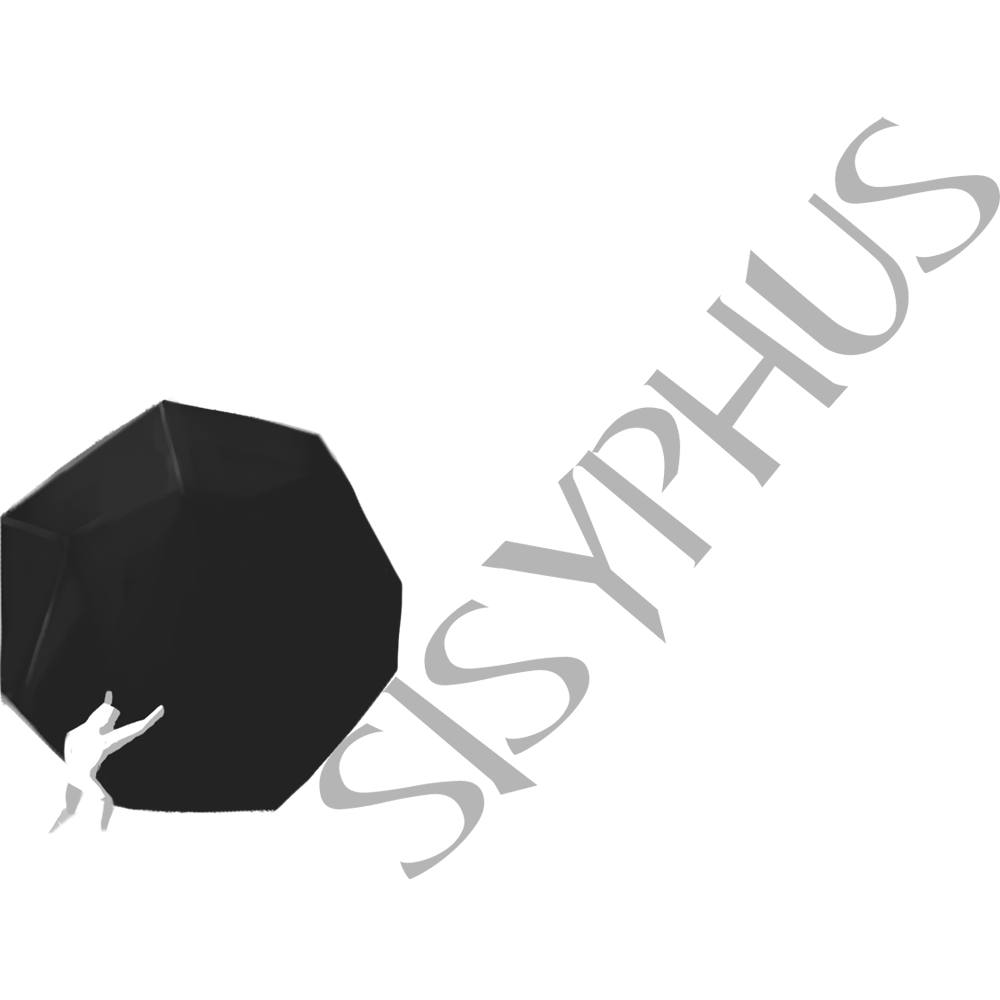
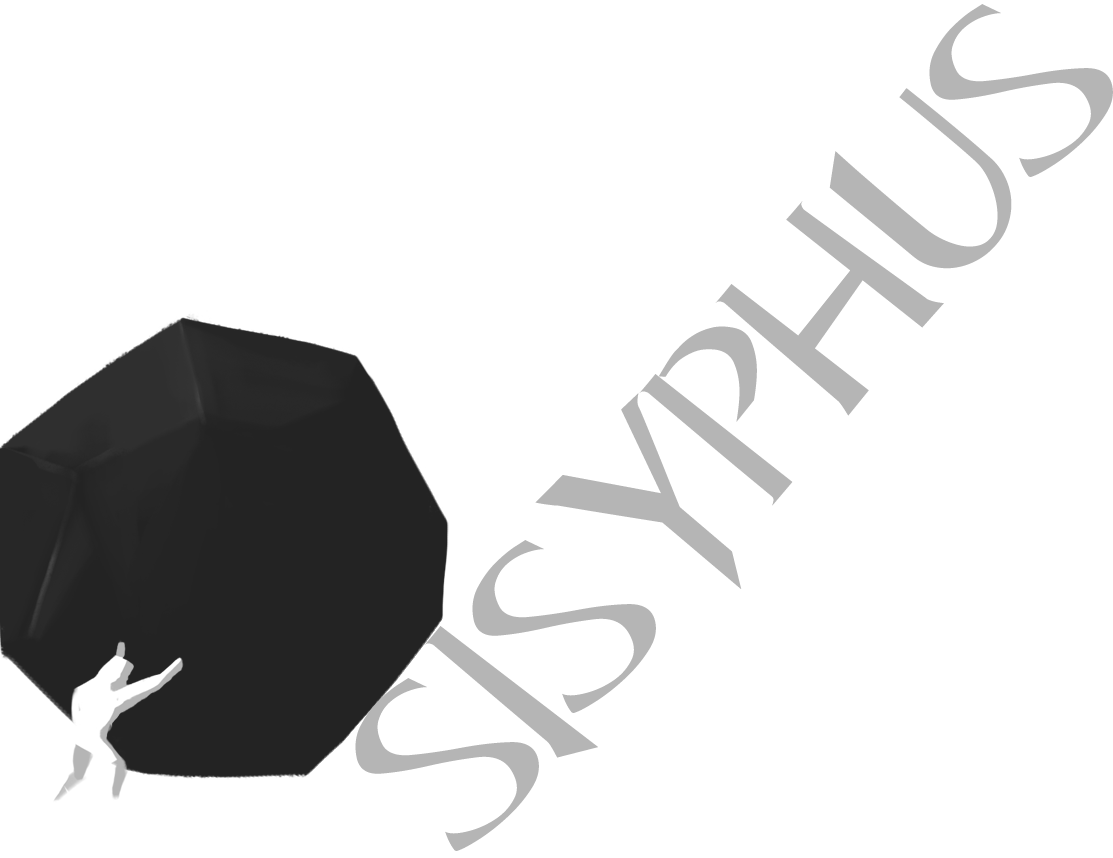
title is prettier

diff --git a/Assets/Scripts/SunIntitle.cs b/Assets/Scripts/SunIntitle.cs
@@ -9,6 +9,7 @@ public class SunIntitle : MonoBehaviour {
 
 	//private SpriteRenderer spriteRenderer;
 	private UnityEngine.UI.Image img;
+	private UnityEngine.UI.Image img2;
 
 	float counter;
 
@@ -16,6 +17,7 @@ public class SunIntitle : MonoBehaviour {
 	void Start () {
 		//spriteRenderer = this.GetComponentInChildren<SpriteRenderer>();
 		img = GetComponent<UnityEngine.UI.Image>(); 
+		img2 = GameObject.FindWithTag ("Highlight").GetComponent<UnityEngine.UI.Image> ();
 		counter = 90.0f;
 	}
 
@@ -33,6 +35,7 @@ public class SunIntitle : MonoBehaviour {
 		//		this.transform.eulerAngles = new Vector3 (0,180,time);
 		sunColor = ColorMap(time);
 		img.color = sunColor;
+		img2.color = sunColor;
 	}
 
 	Color ColorMap (float value)
